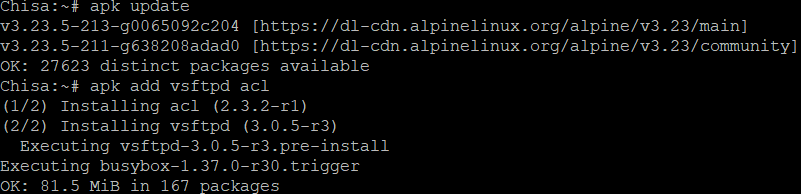
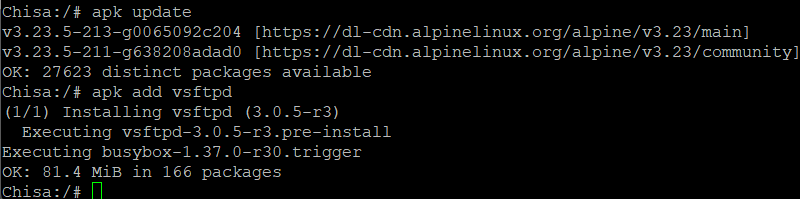
add no 7

Changed region(s): [[0.0, 0.0, 1.0, 0.5876], [0.0, 0.6186, 0.5, 1.0]]

diff --git a/README.md b/README.md
@@ -283,11 +283,12 @@ Command `acl` sendiri digunakan untuk membuat kebijakan akses untuk setiap user 
 
 Sebelum menerapkan akses, perlu untuk membuat user dan passwordnya terlebih dahulu. Karena user yang akan dibuat akses hanyalah client Alice, Mika, dan Eiri, maka cukup sebagai berikut.
 ```
-id alice
-id mika
-id eiri
+adduser alice
+adduser mika
+adduser eiri
 ```
-Password akan diminta setelah mendaftarkan salah satu user.
+Password akan diminta setelah mendaftarkan user.
+
 ![](photo/setuserpassw.png)
 
 Untuk mengatur akses dari setiap client, digunakan command berikut.
@@ -312,8 +313,67 @@ echo "eiri" > /etc/vsftpd.user_list
 ```
 ![](photo/setaksesno7.png)
 
-Selanjutnya, untuk konfigurasi ke `/etc/vsftpd.conf` dengan command berikut:
+Selanjutnya, overwrite konfigurasi ke `/etc/vsftpd.conf` dilakukan dengan command berikut:
+```
+cat <<EOF > /etc/vsftpd.conf
+local_enable=YES
+write_enable=YES
+local_root=/var/wired/data
+chroot_local_user=YES
+allow_writeable_chroot=YES
+user_config_dir=/etc/vsftpd_users
+userlist_enable=YES
+userlist_deny=YES
+userlist_file=/etc/vsftpd.user_list
+EOF
+```
+Salah satunya adalah membuat aksesnya read/write ke folder FTP. Dan juga membuat config usernya menjadi folder based config yang diletakkan ke `/etc/vsftpd_users`.
 
+Kemudian, berikutnya adalah menjalankan FTP server vsftpd di background pada node Chisa.
+```
+vsftpd /etc/vsftpd/vsftpd.conf &
+```
+![](photo/runningftpsever.png)
+
+Maka, FTP server sudah berjalan di background dengan PID 436.
+
+Nah, selanjutnya kita mencoba FTP ke node lain menggunakan client Alice. 
+Command yang digunakan untuk login sebagai user alice adalah sebagai berikut.
+```
+lftp -u alice 10.81.2.10
+```
+`10.81.2.10` adalah IP dari target FTP server yaitu Chisa.
+
+![](photo/loginalice.png)
+
+Command `set ftp:passive-mode true` di sini digunakan untuk mengaktifkan mode pasif pada koneksi FTP antara Alice dan Chisa agar proses transfer file dan pengambilan daftar file dapat berjalan dengan baik, di mana sebelumnya koneksi sering tidak terhubung (dalam mode active).
+
+Selanjutnya adalah membuktikan konfigurasi pada user alice, kita membuat file `signal_alice.txt`. Pada lftp alice, command berikut dijalankan.
+```
+put signal_alice.txt
+```
+Dengan akses user alice dapat read/write, maka konfigurasi terbukti berhasil.
+
+![](photo/putfilealice.png)
+
+![](photo/prooffilealice.png)
+
+File berhasil dibuat oleh user alice.
+
+Pembuktian selanjutnya pada user mika, yaitu read-only.
+Melalui mika, kita login sebagai user mika
+```
+lftp -u mika 10.81.2.10
+```
+![](photo/proofmika.png)
+
+Dari gambar di atas, mika dapat melihat list directory, tetapi tidak bisa membuat file.
+
+Pada user eiri, akses dibatasi (blacklist).
+```
+lftp -u eiri 10.81.2.10
+```
+![](photo/proofeiri.png)
 
 ## Soal_8
 Kelompok rahasia Knights perlu mengirimkan dokumen laporan
@@ -512,6 +572,7 @@ echo "mika_admin:dummy123" | chpasswd
 Tidak perlu set password karena kita mau public key authentication, bukan password.
 
 ![](photo/sshknights.png)
+
 Pada saat cat /root/.ssh/id_ed25519.pub kita perlu menyalin `ssh-ed25519 AAAAC3NzaC1lZDI1NTE5AAAAIM0owaJOoafALSTwkHXrDWCB9lbo9D8OlHnsgQy59rEZ` ini merupakan key nya.
 
 
@@ -531,6 +592,7 @@ ls -l /root/.ssh/
 ```
 
 ![](photo/sshmika.png)
+
 Terlihat bahwa kita berhasil membuat pasagan kunci SSH. Harus muncul id_ed25519 (private key) dan id_ed25519.pub (public key).
 
 Selanjutnya, pindah ke node Knights lalu buat folder .ssh unuk mika_admin dan tempel key nya. Jangam lupa set permission. Juga mengganti konfigurasi PasswordAuthentication Yes menjadi No (Hapus # jika ada)
@@ -545,6 +607,7 @@ Kemudian kita cek apakah koneksi ssh kita berjalan dengan baik melalui node Mika
 ![](photo/sshnodemika.png)
 
 Saat login kita cek login ke ssh Mika dapat dilakukan untuk melakukan capture connection tersebut menggunkan wireshark.
+
 ![](photo/bukticaptureno13.png)
 
 Pertanyaan:
@@ -558,18 +621,22 @@ Berbeda dari Telnet yang mentransmisikan kredensial dalam bentuk *plaintext*, SS
 Analisis | file capture terhadap form
 
 Filter `http`
+
 ![](photo/filterhttp.png)
 
 Ini untuk mencari paket-paket POST /login.php yang datang bertubi-tubi dari sumber yang sama.
 
 Filter lebih spesifik `http.response.code == 200 && ip.addr == 172.26.7.100`
+
 ![](photo/buktibruteforce.png)
 
 Hasil analisis
 - Alamat IP penyerang : 172.26.7.50
+
 ![](photo/ippenyerang.png)
 
 - Port penyerang : 172.26.7.100, port 8080
+
 ![](photo/portpenyerang.png)
 
 - User yang ditembus : lain_admin
@@ -577,5 +644,7 @@ Hasil analisis
 - Web server software : Apache/2.4.62
 
 Ini adalah bukti bahwa pertanyaan sudah terjawab dengan benar.
+
 ![](photo/pertanyaanterjawab.png)
 
+## Soal_15
